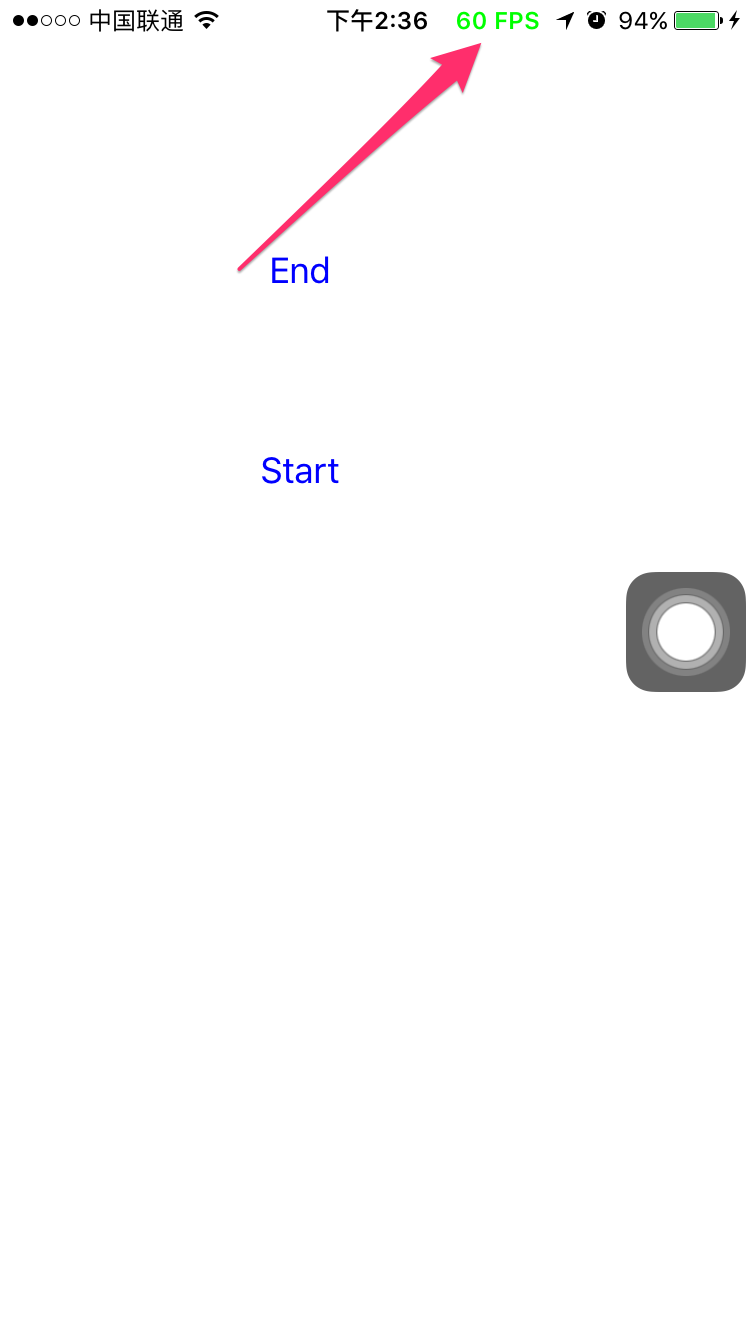
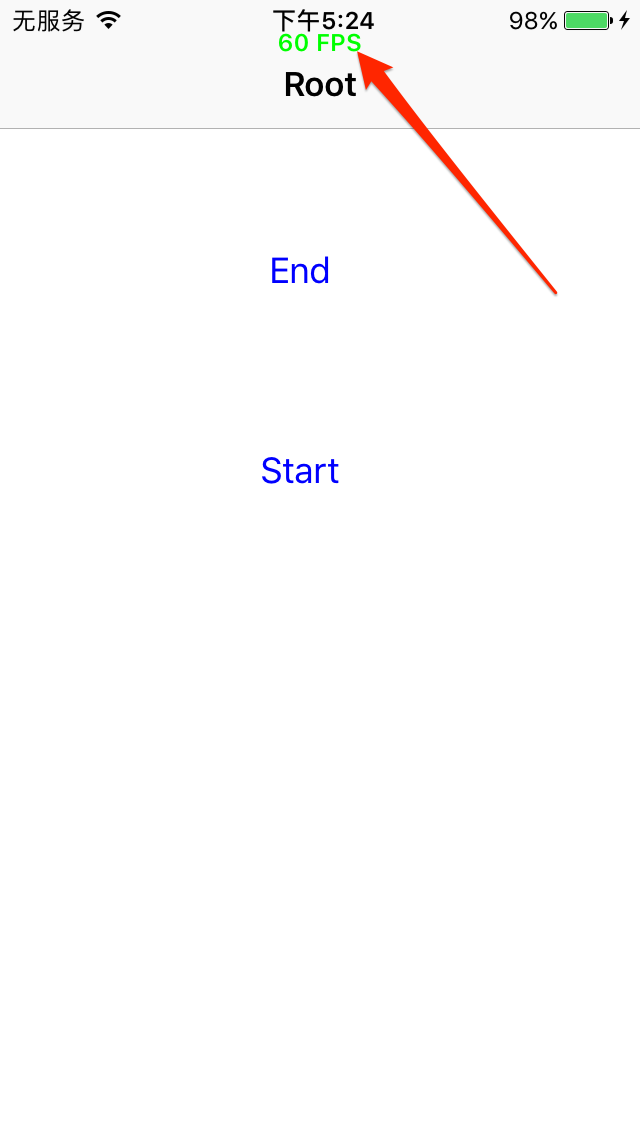
修改底层实现方式

diff --git a/ALFPSStatus/ALFPSStatus.m b/ALFPSStatus/ALFPSStatus.m
@@ -17,14 +17,12 @@
 
 @interface ALFPSStatus ()
 
-@property (nonatomic, strong) UIWindow *window;
 @property (nonatomic, strong) CADisplayLink *displayLink;
 @property (nonatomic, assign) NSTimeInterval lastTime;
 @property (nonatomic, assign) NSUInteger count;
 @property (nonatomic, strong) UILabel *fpsLabel;
 
 @property (nonatomic, assign) BOOL isStart;
-@property (nonatomic, assign) UIInterfaceOrientation launchOrientation;
 
 @end
 
@@ -65,16 +63,6 @@ static ALFPSStatus *shareInstance = nil;
     return shareInstance;
 }
 
-//- (id)copyWithZone:(struct _NSZone *)zone
-//{
-//    return self;
-//}
-//
-//- (id)mutableCopyWithZone:(struct _NSZone *)zone
-//{
-//    return self;
-//}
-
 - (instancetype)copy
 {
     return self;
@@ -92,21 +80,8 @@ static ALFPSStatus *shareInstance = nil;
         [[NSNotificationCenter defaultCenter] addObserver:self selector:@selector(applicationDidBecomeActiveNotification) name:UIApplicationDidBecomeActiveNotification object:nil];
         [[NSNotificationCenter defaultCenter] addObserver:self selector:@selector(applicationWillResignActiveNotification) name:UIApplicationWillResignActiveNotification object:nil];
         [[NSNotificationCenter defaultCenter] addObserver:self selector:@selector(applicationDidFinishLaunchingNotification) name:UIApplicationDidFinishLaunchingNotification object:nil];
-        [[NSNotificationCenter defaultCenter] addObserver:self selector:@selector(applicationWillChangeStatusBarOrientationNotification:) name:UIApplicationWillChangeStatusBarOrientationNotification object:nil];
-        
-        self.displayLink = [CADisplayLink displayLinkWithTarget:self selector:@selector(displayLinkFired:)];
-        self.displayLink.paused = YES;
-        [self.displayLink addToRunLoop:[NSRunLoop currentRunLoop] forMode:NSRunLoopCommonModes];
-        
-        self.fpsLabel = [[UILabel alloc] init];
-        self.fpsLabel.frame = CGRectMake(([UIScreen mainScreen].bounds.size.width - 45)/2.0+50, 0, 45, 20);
-        self.fpsLabel.font = [UIFont boldSystemFontOfSize:12];
-        self.fpsLabel.textColor = [UIColor greenColor];
-        self.fpsLabel.textAlignment = NSTextAlignmentRight;
-        self.fpsLabel.backgroundColor = [UIColor clearColor];
         
         self.isStart = NO;
-        self.launchOrientation = UIInterfaceOrientationUnknown;
     }
     return self;
 }
@@ -153,28 +128,19 @@ static ALFPSStatus *shareInstance = nil;
         return;
     }
 
-    if (!self.window) {
-        self.window = [[UIWindow alloc] init];
-        self.window.frame = CGRectMake(0, 0, [UIScreen mainScreen].bounds.size.width, 20);
-        self.window.windowLevel = UIWindowLevelStatusBar+1.0;
-        self.window.backgroundColor = [UIColor clearColor];
-        self.window.tag = 1000;
-        self.window.hidden = NO;
-        self.window.userInteractionEnabled = NO;
-        
-        self.fpsLabel.frame = CGRectMake((self.window.frame.size.width - 45)/2.0+50, 0, 45, 20);
+    UIWindow *keyWindow = [UIApplication sharedApplication].keyWindow;
+    if (!self.fpsLabel) {
+        self.fpsLabel = [[UILabel alloc] init];
+        self.fpsLabel.font = [UIFont boldSystemFontOfSize:12];
+        self.fpsLabel.textColor = [UIColor greenColor];
+        self.fpsLabel.textAlignment = NSTextAlignmentCenter;
+        self.fpsLabel.backgroundColor = [UIColor clearColor];
+        self.fpsLabel.autoresizingMask = UIViewAutoresizingFlexibleWidth;
     }
     
-    [self.window addSubview:self.fpsLabel];
+    self.fpsLabel.frame = CGRectMake(0, 15, keyWindow.frame.size.width, 12);
+    [keyWindow addSubview:self.fpsLabel];
     
-    if (self.launchOrientation == UIInterfaceOrientationUnknown) {
-        self.launchOrientation = [UIApplication sharedApplication].statusBarOrientation;
-    }
-    
-    if ([[UIDevice currentDevice].systemVersion floatValue] < 9.0) {
-        [self.displayLink invalidate];
-        self.displayLink = nil;
-    }
     if (!self.displayLink) {
         self.displayLink = [CADisplayLink displayLinkWithTarget:self selector:@selector(displayLinkFired:)];
         [self.displayLink addToRunLoop:[NSRunLoop currentRunLoop] forMode:NSRunLoopCommonModes];
@@ -194,7 +160,6 @@ static ALFPSStatus *shareInstance = nil;
         [self.fpsLabel removeFromSuperview];
         
         self.isStart = NO;
-        
         self.lastTime = 0;
         self.count = 0;
     }
@@ -219,163 +184,7 @@ static ALFPSStatus *shareInstance = nil;
 
 - (void)applicationDidFinishLaunchingNotification
 {
-    if ([[UIDevice currentDevice].systemVersion floatValue] >= 9.0) {
-        __weak typeof(self) weakSelf = self;
-        dispatch_after(dispatch_time(DISPATCH_TIME_NOW, (int64_t)(1 * NSEC_PER_SEC)), dispatch_get_main_queue(), ^{
-            [weakSelf start];
-        });
-    } else {
-        [self start];
-    }
-}
-
-- (void)applicationWillChangeStatusBarOrientationNotification:(NSNotification *)noti
-{
-    NSInteger orientation = [noti.userInfo[UIApplicationStatusBarOrientationUserInfoKey] integerValue];
-    if (al_isPad()) {
-        CGRect frame = self.window.frame;
-        frame.size.width = [self screenWidthForOrientation:orientation];
-        self.window.frame = frame;
-        self.fpsLabel.frame = CGRectMake(([self screenWidthForOrientation:orientation]-45)/2.0+50, 0, 45, 20);
-    } else {
-        [self transformInterfaceForOrientation:orientation];
-    }
-}
-
-- (void)transformInterfaceForOrientation:(UIInterfaceOrientation)orientation
-{
-    if (!self.window) {
-        return;
-    }
-    //此时的window坐标系以设置window时的界面方向为准.
-    self.window.bounds = CGRectMake(0, 0, [self screenWidthForOrientation:orientation], 20);
-    self.fpsLabel.frame = CGRectMake((self.window.bounds.size.width-45)/2.0+50, 0, 45, 20);
-    switch (self.launchOrientation) {
-        case UIInterfaceOrientationPortrait:
-            [self resetInterfaceForPortraitLanunchWithCurrentOrientation:orientation];
-            break;
-        case UIInterfaceOrientationLandscapeLeft:
-            [self resetInterfaceForLandscapeLeftLaunchWithCurrentOrientation:orientation];
-            break;
-        case UIInterfaceOrientationLandscapeRight:
-            [self resetInterfaceForLandscapeRightLaunchWithCurrentOrientation:orientation];
-            break;
-        case UIInterfaceOrientationPortraitUpsideDown:
-            break;
-        default:
-            NSLog(@"unknown orientation");
-            break;
-    }
-}
-
-- (void)resetInterfaceForPortraitLanunchWithCurrentOrientation:(UIInterfaceOrientation)orientation
-{
-    CGFloat screenWidth = MIN([UIScreen mainScreen].bounds.size.width, [UIScreen mainScreen].bounds.size.height);
-    CGFloat screenHeight = MAX([UIScreen mainScreen].bounds.size.width, [UIScreen mainScreen].bounds.size.height);
-    switch (orientation) {
-        case UIInterfaceOrientationPortrait:
-            self.window.transform = CGAffineTransformIdentity;
-            self.window.frame = CGRectMake(0, 0, screenWidth, 20);
-            self.window.center = CGPointMake(screenWidth/2.0, 10);
-            break;
-        case UIInterfaceOrientationLandscapeLeft:
-            self.window.transform = CGAffineTransformMakeRotation(RADIANFORANGLE(-90));
-            self.window.center = CGPointMake(10, screenHeight/2.0);
-            break;
-        case UIInterfaceOrientationLandscapeRight:
-            self.window.transform = CGAffineTransformMakeRotation(RADIANFORANGLE(90));
-            self.window.center = CGPointMake(screenWidth-10, screenHeight/2.0);
-            break;
-        case UIInterfaceOrientationPortraitUpsideDown:
-            self.window.transform = CGAffineTransformMakeRotation(RADIANFORANGLE(180));
-            self.window.center = CGPointMake(screenWidth/2.0, screenHeight-10);
-            break;
-        default:
-            NSLog(@"unknown orientation");
-            break;
-    }
-}
-
-- (void)resetInterfaceForLandscapeLeftLaunchWithCurrentOrientation:(UIInterfaceOrientation)orientation
-{
-    CGFloat screenWidth = MIN([UIScreen mainScreen].bounds.size.width, [UIScreen mainScreen].bounds.size.height);
-    CGFloat screenHeight = MAX([UIScreen mainScreen].bounds.size.width, [UIScreen mainScreen].bounds.size.height);
-    switch (orientation) {
-        case UIInterfaceOrientationPortrait:
-            self.window.transform = CGAffineTransformMakeRotation(RADIANFORANGLE(90));
-            self.window.center = CGPointMake(screenHeight-10, screenWidth/2.0);
-            break;
-        case UIInterfaceOrientationLandscapeLeft:
-            self.window.transform = CGAffineTransformIdentity;
-            self.window.center = CGPointMake(screenHeight/2.0, 10);
-            break;
-        case UIInterfaceOrientationLandscapeRight:
-            self.window.transform = CGAffineTransformMakeRotation(RADIANFORANGLE(180));
-            self.window.center = CGPointMake(screenHeight/2.0, screenWidth-10);
-            break;
-        case UIInterfaceOrientationPortraitUpsideDown:
-            self.window.transform = CGAffineTransformMakeRotation(RADIANFORANGLE(-90));
-            self.window.center = CGPointMake(10, screenWidth/2.0);
-            break;
-        default:
-            NSLog(@"unknown orientation");
-            break;
-    }
-}
-
-- (void)resetInterfaceForLandscapeRightLaunchWithCurrentOrientation:(UIInterfaceOrientation)orientation
-{
-    CGFloat screenWidth = MIN([UIScreen mainScreen].bounds.size.width, [UIScreen mainScreen].bounds.size.height);
-    CGFloat screenHeight = MAX([UIScreen mainScreen].bounds.size.width, [UIScreen mainScreen].bounds.size.height);
-    switch (orientation) {
-        case UIInterfaceOrientationPortrait:
-            self.window.transform = CGAffineTransformMakeRotation(RADIANFORANGLE(-90));
-            self.window.center = CGPointMake(10, screenWidth/2.0);
-            break;
-        case UIInterfaceOrientationLandscapeLeft:
-            self.window.transform = CGAffineTransformMakeRotation(RADIANFORANGLE(180));
-            self.window.center = CGPointMake(screenHeight/2.0, screenWidth-10);
-            break;
-        case UIInterfaceOrientationLandscapeRight:
-            self.window.transform = CGAffineTransformIdentity;
-            self.window.center = CGPointMake(screenHeight/2.0, 10);
-            break;
-        case UIInterfaceOrientationPortraitUpsideDown:
-            self.window.transform = CGAffineTransformMakeRotation(RADIANFORANGLE(90));
-            self.window.center = CGPointMake(screenHeight-10, screenWidth/2.0);
-            break;
-        default:
-            NSLog(@"unknown orientation");
-            break;
-    }
-}
-
-#pragma mark - Private
-BOOL al_isPad()
-{
-    return (UI_USER_INTERFACE_IDIOM() == UIUserInterfaceIdiomPad);
-}
-
-- (CGFloat)screenWidthForOrientation:(UIInterfaceOrientation)orientation
-{
-    CGFloat screenWidth = MIN([UIScreen mainScreen].bounds.size.width, [UIScreen mainScreen].bounds.size.height);
-    
-    CGFloat screenHeight = MAX([UIScreen mainScreen].bounds.size.width, [UIScreen mainScreen].bounds.size.height);
-    CGFloat currentWidth = 0;
-    switch (orientation) {
-        case UIInterfaceOrientationLandscapeRight:
-        case UIInterfaceOrientationLandscapeLeft:
-            currentWidth = screenHeight;
-            break;
-        case UIInterfaceOrientationPortrait:
-        case UIInterfaceOrientationPortraitUpsideDown:
-            currentWidth = screenWidth;
-            break;
-        default:
-            currentWidth = screenWidth;
-            break;
-    }
-    return currentWidth;
+    [self start];
 }
 
 @end

diff --git a/ALFPSStatusDemo/RootViewController.m b/ALFPSStatusDemo/RootViewController.m
@@ -15,6 +15,9 @@
 {
     [super viewDidLoad];
     
+    self.view.backgroundColor = [UIColor whiteColor];
+    self.navigationItem.title = @"Root";
+    
     UIButton *button = [UIButton buttonWithType:UIButtonTypeCustom];
     button.frame = CGRectMake(100, 100, 100, 70);
     [button setTitle:@"End" forState:UIControlStateNormal];
@@ -28,7 +31,11 @@
     [button setTitleColor:[UIColor blueColor] forState:UIControlStateNormal];
     [button addTarget:self action:@selector(startAction) forControlEvents:UIControlEventTouchUpInside];
     [self.view addSubview:button];
-    
+}
+
+- (BOOL)prefersStatusBarHidden
+{
+    return NO;
 }
 
 - (void)endAction

diff --git a/ALFPSStatusDemo/AppDelegate.m b/ALFPSStatusDemo/AppDelegate.m
@@ -21,7 +21,8 @@
     self.window.backgroundColor = [UIColor whiteColor];
     [self.window makeKeyAndVisible];
     
-    self.window.rootViewController = [[RootViewController alloc] init];
+    RootViewController *rootVC = [[RootViewController alloc] init];
+    self.window.rootViewController = [[UINavigationController alloc] initWithRootViewController:rootVC];
     
     return YES;
 }
